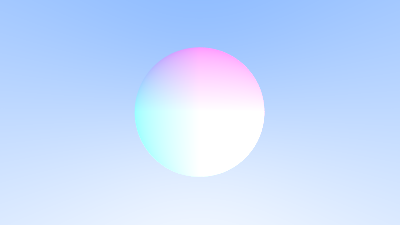
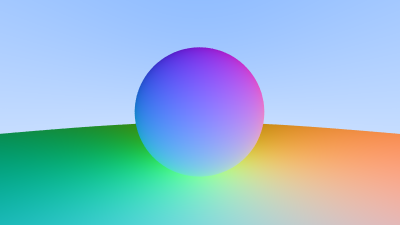
add support for multiple sphere objects

diff --git a/src/ray.rs b/src/ray.rs
@@ -1,8 +1,8 @@
 use crate::camera::{Camera};
 
-use crate::world::{Hittable, Sphere, HitRecord};
+use crate::world::{Sphere, HitRecord, Hittable};
 
-pub fn compute_color_scale(i:f64,j:f64,image_height:u32,image_width:u32, camera: &Camera, sphere: &Sphere) -> Vec<f64> {
+pub fn compute_color_scale(i:f64,j:f64,image_height:u32,image_width:u32, camera: &Camera, world: &Vec<Sphere>) -> Vec<f64> {
     let u = i / (image_width - 1) as f64;
     let v = j / (image_height - 1) as f64;
 
@@ -10,7 +10,32 @@ pub fn compute_color_scale(i:f64,j:f64,image_height:u32,image_width:u32, camera:
     let y_direction = (v-0.5) * camera.viewport_height;
     
     let light_ray = Ray::new(vec![camera.x, camera.y, camera.z], vec![x_direction, y_direction, -1.0*camera.focal_length]);
-    let record: Option<HitRecord> = sphere.hit(&light_ray, 0.0, 10000.0);
+    
+    let object_hit_processor = {
+        |acc:Option<HitRecord>, elem: &Sphere| 
+        match elem.hit(&light_ray, 0.0, 10000.0) {
+            Some(rec) => {
+                match acc {
+                    Some(prev_rec) => {
+                        if prev_rec.t < rec.t {
+                            Some(prev_rec)
+                        } else {
+                            Some(rec)
+                        }
+                    }
+                    None => {
+                        Some(rec)
+                    }
+                }
+            }
+            None => {
+                acc
+            }
+        }
+    };
+    
+    let record: Option<HitRecord> = world.iter().fold(None, object_hit_processor);
+    // let record: Option<HitRecord> = sphere.hit(&light_ray, 0.0, 10000.0);
     match record {
         Some(rec) => { // color the sphere
             let dir = &light_ray.direction;
@@ -18,7 +43,7 @@ pub fn compute_color_scale(i:f64,j:f64,image_height:u32,image_width:u32, camera:
             let position: Vec<f64> = orig.iter().zip(dir.iter()).map(|(x,y)| x + rec.t * y).collect();
             let position = vec![position[0], position[1], position[2]+1.0];
             let normal = unit_vector(&position);
-            let color_scale = vec![0.5 * normal[0] + 1.0, 0.5 * normal[1] + 1.0, 0.5 * normal[2] + 1.0];
+            let color_scale = vec![0.5 * (normal[0] + 1.0), 0.5 * (normal[1] + 1.0), 0.5 * (normal[2] + 1.0)];
             return color_scale;
         },
         None => { // fall back to background

diff --git a/src/main.rs b/src/main.rs
@@ -2,11 +2,11 @@ mod camera;
 mod ray;
 mod world;
 use std::{path::Path, vec, sync::Mutex};
-use image::{ImageBuffer, buffer::EnumeratePixelsMut, Rgb};
+use image::{ImageBuffer, Rgb};
 use rayon::prelude::*;
 use ray::{compute_color_scale, write_color};
 use camera::Camera;
-use rand::{thread_rng, Rng};
+use rand;
 use world::Sphere;
 
 fn main() {
@@ -17,13 +17,20 @@ fn main() {
     let samples_per_pixel = 100; //for antialiasing
 
     let path = Path::new("image.png");
-    let mut imgbuf: Mutex<ImageBuffer<Rgb<u8>, Vec<u8>>> = Mutex::new(ImageBuffer::new(image_width, image_height));
+    let imgbuf: Mutex<ImageBuffer<Rgb<u8>, Vec<u8>>> = Mutex::new(ImageBuffer::new(image_width, image_height));
     let camera = Camera::new(vec![0.0,0.0,0.0], 90.0, aspect_ratio, 1.0);
 
     let sphere = Sphere {
         center: vec![0.0,0.0,-1.0],
         radius: 0.5,
     };
+    // the image is flipped
+    let bg_sphere = Sphere {
+        center: vec![0.0, 100.5,-1.0], // the y axis should be negative
+        radius: 100.0,
+    };
+
+    let world: Vec<Sphere> = vec![sphere, bg_sphere];
 
     // let mut rng = thread_rng(); 
 
@@ -33,7 +40,7 @@ fn main() {
             // compute a ray sample at the pixel
             let sample_ray = |_x| -> Vec<f64> {
 
-                compute_color_scale(i as f64 + rand::random::<f64>(), j as f64 + rand::random::<f64>(), image_height, image_width, &camera, &sphere)
+                compute_color_scale(i as f64 + rand::random::<f64>(), j as f64 + rand::random::<f64>(), image_height, image_width, &camera, &world)
             };
             // sum the ray samples
             let vector_addition = {
